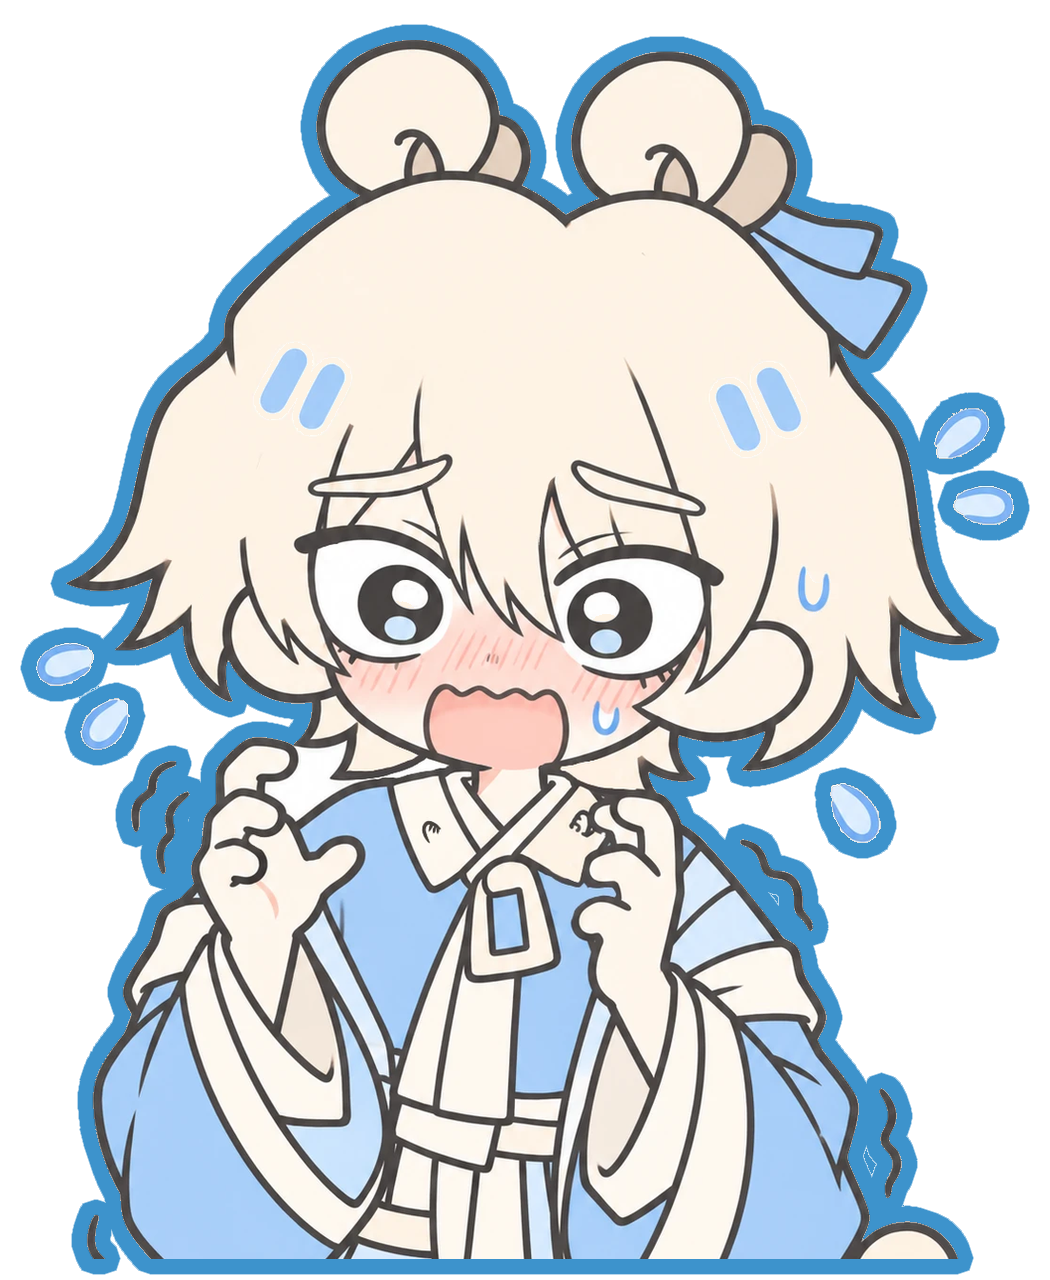
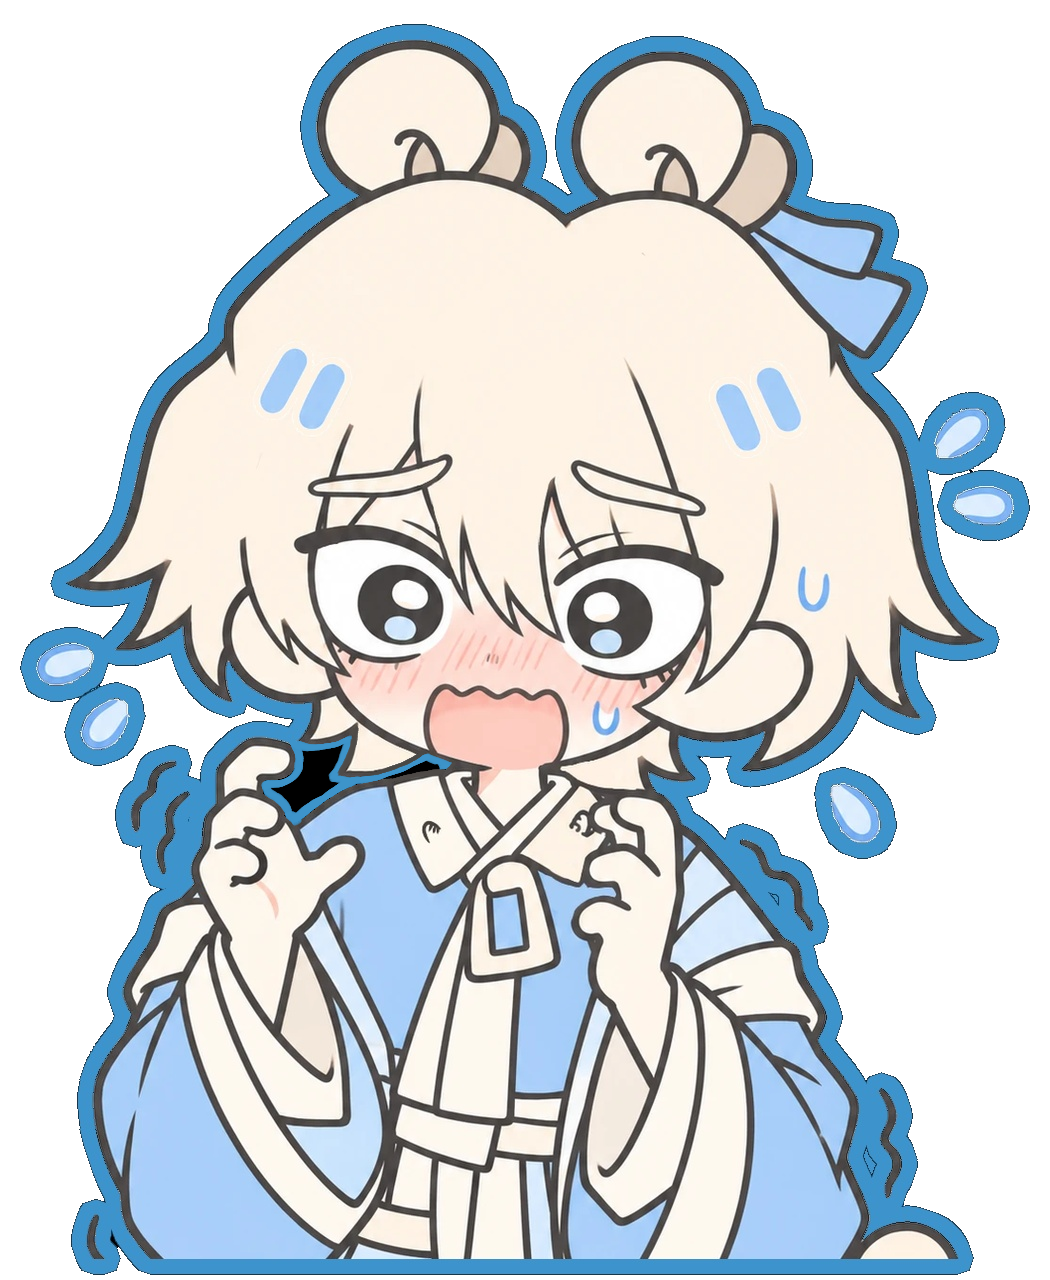
feat: UI 5종 · 앨범 6장 · 초상화 4장 교체 + 9번 진열장 회수
UI — Paper/Wood 를 Hud.Panel 에 꽂았다. 그 한 함수를 지나가는 모든 패널이
한꺼번에 바뀐다(레이스·로비·캠퍼스·조작법·완주·단서). 그림이 없으면 예전처럼
단색으로 떨어지니 파일을 빼도 안 깨진다.

- 곰 발바닥 칩 + 손글씨 종이 카드 + 곰 귀를 Hud 에 모았다. 세 HUD 가 같은 칩과
  같은 카드를 그리니 한 군데에 둬야 셋이 같이 바뀐다
- 발바닥은 마우스로도 눌린다 — 키만 있으면 안 눌러본 사람에겐 없는 기능이다
  (G·TAB 에서 두 번 겪은 실수)
- Remote3(녹슨 버전)을 지웠다. Resources 는 쓰든 안 쓰든 빌드에 다 들어간다

초상화 — 이감 셋 + 세운 당황. 1050×1280 · 0.8203 · 크롭/테두리는 이미 돼 있어
검은 배경만 투명으로. 포니테일 아래 갇힌 검은 주머니(21k px)도 같이 지웠다.
선화는 얇아서(fill < 0.3) 안 걸린다.

앨범 — 여섯 장 1024×1112(0.92). 짝수라 펼침면 셋으로 딱 맞는다.

9번 진열장 — 수연 결정으로 남기고 에필로그에 여섯 줄로 회수한다.
안에 무엇이 있었는지는 적지 않고 칸이 왜 비어 있는지까지만 — 관장이
프롤로그에서 「이따가 얘기하자」로 피하던 것과 같은 사람이고, 앨범의
〈01_빈자리〉 그림이 같은 말을 한다.

diff --git a/Assets/Scripts/Hud.cs b/Assets/Scripts/Hud.cs
@@ -71,9 +71,13 @@ public static class Hud
         builtWith = font;
         built = true;
 
-        WoodTex     = Solid(Wood);
+        // ★★ 2026-10-12 — <b>그림이 있으면 그걸 쓴다.</b> 없으면 예전처럼 단색 한 점으로
+        //   떨어진다 — 파일을 빼도 HUD 가 안 깨진다.
+        //   이 두 줄이 <see cref="Panel"/> 을 지나는 <b>모든 패널</b>을 한꺼번에 바꾼다 —
+        //   레이스·로비·캐퍼스·조작법·완주·단서 카드까지.
+        WoodTex     = Resources.Load<Texture2D>("UI/Wood")  ?? Solid(Wood);
         WoodDarkTex = Solid(WoodDark);
-        PaperTex    = Solid(Paper);
+        PaperTex    = Resources.Load<Texture2D>("UI/Paper") ?? Solid(Paper);
         BrassTex    = Solid(Brass);
         RibbonTex   = Solid(Ribbon);
 
@@ -207,6 +211,80 @@ public static class Hud
         GUI.DrawTexture(r, PaperTex);
         GUI.DrawTexture(new Rect(r.x, r.yMax - 2f, r.width, 2f), WoodDarkTex);
     }
+
+    // ── 곤 발바닥 버튼·손글씨 종이·곤 귀 ─────────────────────────────────
+    //
+    //  ★★ 2026-10-12 — 세 HUD 가 <b>같은 칩과 같은 카드</b>를 그린다. 여기 한 군데에
+    //  두면 한 번 고쳐 셋이 같이 바뀜다 — 팔레트를 <c>Hud</c> 에 모아 둔 것과 같은 이유다.
+    //  ★ 그림이 없으면 전부 예전 모양으로 떨어진다.
+
+    static Texture2D pawTex, earsTex, noteTex;
+    static bool uiTried;
+
+    static void LoadUi()
+    {
+        if (uiTried) return;
+        uiTried = true;
+        pawTex  = Resources.Load<Texture2D>("UI/Paw");
+        earsTex = Resources.Load<Texture2D>("UI/Ears");
+        noteTex = Resources.Load<Texture2D>("UI/Note");
+    }
+
+    public static Texture2D PawTex  { get { LoadUi(); return pawTex;  } }
+    public static Texture2D EarsTex { get { LoadUi(); return earsTex; } }
+    public static Texture2D NoteTex { get { LoadUi(); return noteTex; } }
+
+    /// <summary>
+    /// 조작법 칩. 곤 발바닥이 있으면 그걸 앞에 두고, 없으면 「H」 글자만.
+    /// <b>마우스로도 눌린다</b> — 누른 것을 <c>true</c> 로 돌려준다.
+    /// </summary>
+    public static bool PawChip(Rect r, string label = "조작법")
+    {
+        LoadUi();
+        Chip(r);
+        float pad = 6f;
+        if (pawTex != null)
+        {
+            float s = r.height - pad * 2f;
+            GUI.DrawTexture(new Rect(r.x + pad, r.y + pad, s, s), pawTex, ScaleMode.ScaleToFit, true);
+            GUI.Label(new Rect(r.x + pad + s + 5f, r.y + 3f, r.width - pad - s - 8f, 18f),
+                      label, Resize(Text, 13));
+        }
+        else
+        {
+            GUI.Label(new Rect(r.x + 9f, r.y + 3f, r.width - 14f, 18f), "H  " + label, Resize(Text, 13));
+        }
+
+        // 마우스는 화면 좌표라 가상 1280×720 으로 내려야 한다(태엽 회전축과 같은 함정)
+        var m = UnityEngine.InputSystem.Mouse.current;
+        if (m == null || !m.leftButton.wasPressedThisFrame) return false;
+        Vector2 v = m.position.ReadValue();
+        v = new Vector2(v.x / ScaleFactor, (Screen.height - v.y) / ScaleFactor);
+        return r.Contains(v);
+    }
+
+    /// <summary>
+    /// 손글씨 종이 카드. 그림이 있으면 한지 한 장, 없으면 <see cref="Panel"/>.
+    /// 같이 <b>곤 귀</b>를 언어 — 카드 위에 귀가 빼꿜 나오면 «고문» 이 된다.
+    /// </summary>
+    public static void NoteCard(Rect r)
+    {
+        LoadUi();
+        if (earsTex != null)
+        {
+            float ew = r.width * 0.30f, eh = ew * 0.5f;
+            GUI.DrawTexture(new Rect(r.center.x - ew * 0.5f, r.y - eh * 0.62f, ew, eh),
+                            earsTex, ScaleMode.ScaleToFit, true);
+        }
+        if (noteTex != null) GUI.DrawTexture(r, noteTex, ScaleMode.StretchToFill, true);
+        else Panel(r);
+    }
+
+    /// <summary>종이 카드 안쪽. 한지 테두리가 있어 <see cref="Inner"/> 보다 좀 더 물러난다.</summary>
+    public static Rect NoteInner(Rect r) =>
+        noteTex != null ? new Rect(r.x + r.width * 0.055f, r.y + r.height * 0.055f,
+                                   r.width * 0.89f, r.height * 0.89f)
+                        : Inner(r);
 
     /// <summary>종이에 그은 옅은 칸막이 줄.</summary>
     public static void Rule(float x, float y, float width)

diff --git a/Assets/Scripts/StoryScript.cs b/Assets/Scripts/StoryScript.cs
@@ -849,6 +849,19 @@ Narrate("첫 번째 주행이 시작됐다."),
             Say("이감", "박물관의 존망보다 변기가 먼저였군."),
             Say("세진", "넌 똥 안 싸고 사냐."),
 
+            // ★★ 2026-10-12 — <b>전시실 아홉 번째 칸을 회수하는 자리.</b>
+            //   그 칸은 <c>GallerySceneBuilder.MakeNinthCase</c> 로 지어져 있고
+            //   덮개가 바닥에 벗겨져 있다 — «아직 안 열었다» 가 아니라 «누가 이미 열었다».
+            //   <b>안에 무엇이 있었는지는 적지 않는다.</b> 칸이 왜 비어 있는지까지만 답한다 —
+            //   관장이 프롤로그에서 «이따가 얘기하자» 로 피했던 것과 같은 사람이고,
+            //   앱범의 〈01_빈자리〉 그림(선반 가운데 먼지 자국)가 같은 말을 한다.
+            Say("세운", "관장님. 전시실 아홉 번째 칸은 왜 비어 있어요?"),
+            Say("관장", "…덮개는 내가 벗겼다."),
+            Say("시우", "안에 있던 건요."),
+            Say("관장", "찾으면 넣으려고."),
+            Say("이감", "그래서 칸을 비워 둔 거예요?"),
+            Say("관장", "비워 두면 언젠가 채우게 되거든."),
+
             Say("세운", Mood.기쁨, "그래도… 다시 시끄러워져서 좋다."),
             Say("시우", "응."),
             Say("시우", "이 정도면 됐어."),

diff --git a/Assets/Scripts/CampusHUD.cs b/Assets/Scripts/CampusHUD.cs
@@ -202,15 +202,16 @@ public class CampusHUD : MonoBehaviour
                   $"{state}  ·  F 날기  ·  F8 클리어 전/후  ·  F1 로비", tiny);
 
         if (showControls) return;
-        var chip = new Rect(16f, h - 28f, 88f, 22f);
-        Hud.Chip(chip);
-        GUI.Label(new Rect(chip.x + 9f, chip.y + 3f, 78f, 18f), "H  조작법", Hud.Resize(Hud.Text, 13));
+        // ★ 곤 발바닥 버튼. H 로도 열리고 <b>마우스로도 눌린다</b> —
+        //   키만 있으면 안 눌러본 사람에겐 없는 기능이다(G·TAB 에서 두 번 겉은 실수).
+        var chip = new Rect(16f, h - 34f, 98f, 28f);
+        if (Hud.PawChip(chip)) showControls = !showControls;
     }
 
     void DrawControls(float w, float h)
     {
         var box = new Rect(w * 0.5f - 190f, h * 0.5f - 130f, 380f, 260f);
-        Hud.Panel(box);
+        Hud.NoteCard(box);
 
         GUI.Label(new Rect(box.x, box.y + 16f, box.width, 26f), "조작법", Hud.Title);
         Hud.Rule(box.x + 20f, box.y + 46f, box.width - 40f);

diff --git a/Assets/Scripts/LobbyHUD.cs b/Assets/Scripts/LobbyHUD.cs
@@ -377,15 +377,16 @@ public class LobbyHUD : MonoBehaviour
     void DrawCorner(float h)
     {
         if (showControls) return;
-        var chip = new Rect(16f, h - 28f, 88f, 22f);
-        Hud.Chip(chip);
-        GUI.Label(new Rect(chip.x + 9f, chip.y + 3f, 78f, 18f), "H  조작법", Hud.Resize(Hud.Text, 13));
+        // ★ 곤 발바닥 버튼. H 로도 열리고 <b>마우스로도 눌린다</b> —
+        //   키만 있으면 안 눌러본 사람에겐 없는 기능이다(G·TAB 에서 두 번 겉은 실수).
+        var chip = new Rect(16f, h - 34f, 98f, 28f);
+        if (Hud.PawChip(chip)) showControls = !showControls;
     }
 
     void DrawControls(float w, float h)
     {
         var box = new Rect(w * 0.5f - 200f, h * 0.5f - 168f, 400f, 336f);
-        Hud.Panel(box);
+        Hud.NoteCard(box);
 
         GUI.Label(new Rect(box.x, box.y + 14f, box.width, 24f), "조작법", Hud.Title);
         Hud.Rule(box.x + 20f, box.y + 40f, box.width - 40f);

diff --git a/Assets/Scripts/TestHUD.cs b/Assets/Scripts/TestHUD.cs
@@ -930,15 +930,16 @@ public class TestHUD : MonoBehaviour
         }
 
         if (showControls) return;
-        var chip = new Rect(16f, h - 28f, 88f, 22f);
-        Hud.Chip(chip);
-        GUI.Label(new Rect(chip.x + 9f, chip.y + 3f, 78f, 18f), "H  조작법", Hud.Resize(Hud.Text, 13));
+        // ★ 곤 발바닥 버튼. H 로도 열리고 <b>마우스로도 눌린다</b> —
+        //   키만 있으면 안 눌러본 사람에겐 없는 기능이다(G·TAB 에서 두 번 겉은 실수).
+        var chip = new Rect(16f, h - 34f, 98f, 28f);
+        if (Hud.PawChip(chip)) showControls = !showControls;
     }
 
     void DrawControls(float w, float h)
     {
         var box = new Rect(w * 0.5f - 200f, h * 0.5f - 157f, 400f, 314f);
-        Hud.Panel(box);
+        Hud.NoteCard(box);
 
         GUI.Label(new Rect(box.x, box.y + 16f, box.width, 26f), "조작법", Hud.Title);
         Hud.Rule(box.x + 20f, box.y + 46f, box.width - 40f);
